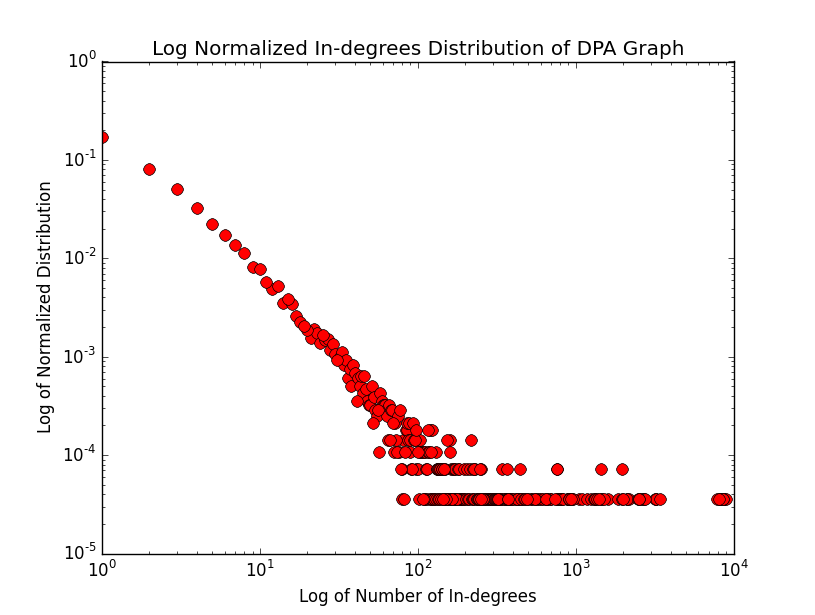
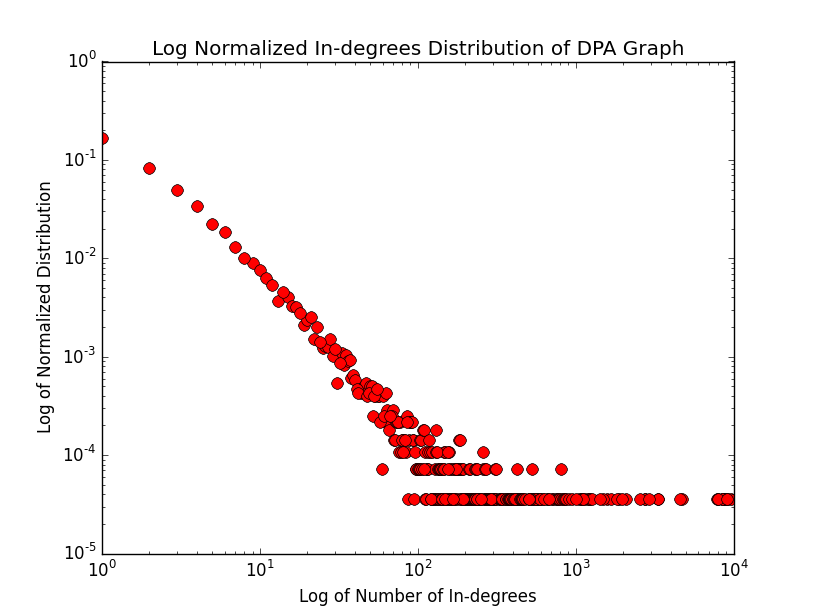
update plot1-4

diff --git a/Module1/code/application3_5.py b/Module1/code/application3_5.py
@@ -4,7 +4,7 @@ Code for Application question 3 - 5 of Module 1
 
 from DPATrial import DPATrial
 from project1 import make_complete_graph, in_degree_distribution
-from application1_2 import normalization
+from application1_2 import normalization, load_graph, CITATION_URL
 from matplotlib import pyplot as plt
 
 
@@ -54,8 +54,15 @@ def question4_plot(n, m):
     plt.ylabel('Log of Normalized Distribution')
     plt.plot(normalized_dist.keys(), normalized_dist.values(),
              'ro', markersize=8)
-    plt.show()
+
+    # compare with the citation graph
+    
+    # citation = load_graph(CITATION_URL)
+    # citation_dist = normalization(in_degree_distribution(citation))
+    # plt.plot(citation_dist.keys(), citation_dist.values(),
+    #          'bo', markersize=8)
+    # plt.show()
 
 
 if __name__ == '__main__':
-    question4_plot(28000, 13)
+    question4_plot(27770, 13)
